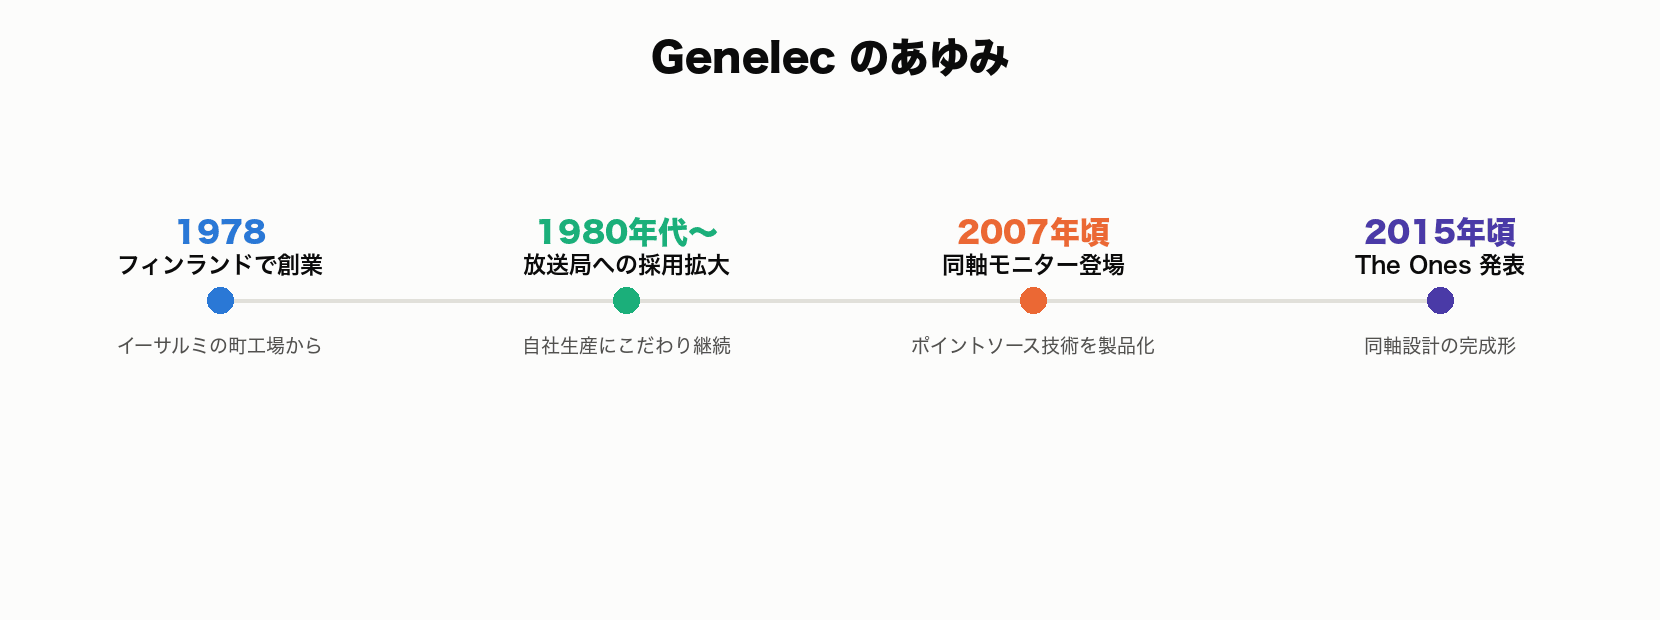
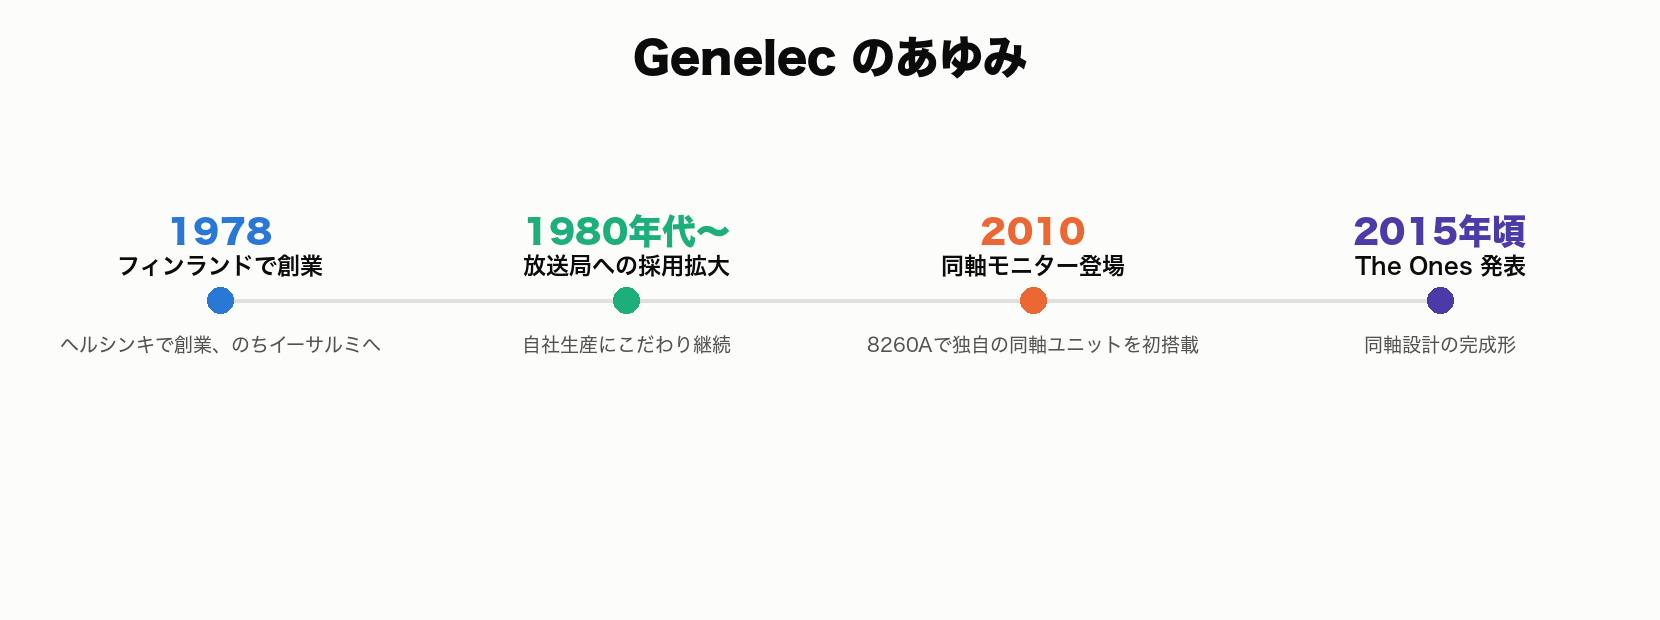
hardware_dtm: 前半のタイムライン画像5枚(Genelec・Sony・AMS Neve・Shure・SSL)を本文の年号に合わせて作り直し、Genelecのつかみ文とShureの資本の説明の根拠不明な記述を修正

diff --git a/courses/hardware_dtm.js b/courses/hardware_dtm.js
@@ -213,7 +213,7 @@ window.COURSES["hardware_dtm"] = {
       order: 3,
       title: "Genelec",
       category: "モニタースピーカー",
-      hook: "フィンランドの小さな町の会社が「同軸ユニット」を発明し、世界のスタジオの標準になった話。",
+      hook: "フィンランドの小さな町に拠点を置く会社が、測定を重んじるアンプ内蔵モニターと独自の同軸設計で、世界のスタジオの標準になった話。",
       image: "genelec_card.png",
       sections: [
         {
@@ -318,7 +318,7 @@ window.COURSES["hardware_dtm"] = {
             { who: "mina", text: "Neveって名前、機材でもプラグインでもよく見かけるんですけど、そもそも誰なんですか?" },
             { who: "sensei", text: "1961年、イギリス・ケンブリッジ近郊でRupert Neveが設立した「Neve Electronics」が源流だ。1970年前後に開発された1073マイクプリ/EQモジュールは、今も「あの太さ」の代名詞として語り継がれる名機になったんだ。" },
             { who: "mina", text: "Rupert Neveって、ずっと同じ会社にいたわけじゃないんですか?" },
-            { who: "sensei", text: "そう、自身が興した会社を手放してはまた新しい会社を興す、というキャリアを繰り返した人物として知られている。Neve社自体もその後複数回の資本移動を経て、Advanced Music Systems(AMS)と統合して「AMS Neve」になったんだ。本人もその後Focusrite(1985年)、さらに晩年にRupert Neve Designs(2005年、アメリカ・テキサス州)を興すなど、生涯にわたって設計者として現場に関わり続けた。2021年に亡くなるまで、新しい回路設計への情熱を失わなかった人物として業界内で敬意を集めているよ。" },
+            { who: "sensei", text: "そう、自身が興した会社を手放してはまた新しい会社を興す、というキャリアを繰り返した人物として知られている。Neve社自体もその後複数回の資本移動を経て(1985年にドイツのSiemens傘下)、1992年に同じくSiemensが買収していたAdvanced Music Systems(AMS)と統合されて「AMS Neve」になったんだ。本人もその後Focusrite(1985年)、さらに晩年にRupert Neve Designs(2005年、アメリカ・テキサス州)を興すなど、生涯にわたって設計者として現場に関わり続けた。2021年に亡くなるまで、新しい回路設計への情熱を失わなかった人物として業界内で敬意を集めているよ。" },
             { who: "mina", text: "1073ってどういう経緯で生まれた製品なんですか?" },
             { who: "sensei", text: "1073の設計は元々、1970年にロンドンのWessex Studios(ウェセックス・スタジオ)向けの大型コンソール「A88」用に開発されたモジュールだったとされているんだ。特定スタジオの発注に応じて作られた一部品が、後にNeveというブランド全体を象徴する存在になったという経緯は、名機誕生の逸話としてしばしば語られるよ。" },
           ],
@@ -445,7 +445,7 @@ window.COURSES["hardware_dtm"] = {
           heading: "お金の話",
           dialogue: [
             { who: "mina", text: "Shureって大企業ですよね?経営体制はどうなってるんですか?" },
-            { who: "sensei", text: "Shureは大企業でありながら、現在も創業家(Shure/LaMantia家)が経営権を握る非公開企業であり続けている点が業界内で特筆されるんだ。大手が上場・買収を経験する中、独立資本を保ち続けていることが製品の一貫性にもつながっているとされているよ。正確な売上高・株式構成の詳細は非公開情報が多く要確認だね。" },
+            { who: "sensei", text: "Shureは大企業でありながら、株式を上場しない非公開企業のまま、2025年に創業100周年を迎えた点が業界内で特筆されるんだ。1995年に創業者Sidney N. Shureが亡くなった後は妻のRose Shureが会社を率い、2016年に彼女が亡くなった後は社内で長く働いてきたChris Schyvinckが会長兼CEOを引き継いだとされる。大手が上場・買収を経験する中、独立資本を保ち続けていることが製品の一貫性にもつながっているとされているよ。正確な売上高・株式構成の詳細は非公開情報が多く要確認だね。" },
           ],
         },
         {
@@ -478,7 +478,7 @@ window.COURSES["hardware_dtm"] = {
       quiz: [
         { q: "Shureの創業当初の事業は何だったか?", choices: ["マイク専業", "ラジオ部品のキット販売", "レコード制作", "楽器店"], answer: 1, explain: "1925年創業当初はラジオ部品のキット販売業だった。" },
         { q: "SM57/SM58に共通するマイクの型式は?", choices: ["コンデンサー型", "リボン型", "ダイナミック型", "真空管型"], answer: 2, explain: "耐久性に優れたダイナミック型マイクである。" },
-        { q: "Shureという企業の資本面での特徴は?", choices: ["近年上場した", "外資に買収された", "創業家経営の非公開企業を維持", "サブスク専業に転換した"], answer: 2, explain: "100年近く創業家が経営権を握る非公開企業として続いている。" },
+        { q: "Shureという企業の資本面での特徴は?", choices: ["近年上場した", "外資に買収された", "上場しない非公開企業として独立を維持", "サブスク専業に転換した"], answer: 2, explain: "1925年の創業から100年以上、株式を上場しない非公開企業として独立を保っている。" },
         { q: "ダイナミック型マイクがファンタム電源を必要としない理由は?", choices: ["電池を内蔵しているから", "コイルと磁石で自ら発電する構造だから", "デジタル信号のみを扱うから", "USBで給電されるから"], answer: 1, explain: "コイルと磁石による電磁誘導で自己発電的に動作する構造のため。" },
         { q: "近年配信/ポッドキャスト市場で人気が再燃したShureのマイクは?", choices: ["SM57", "SM7B", "Beta 52A", "KSM44"], answer: 1, explain: "SM7Bは放送/配信/レコーディング向けとして近年特に人気が高まっている。" },
         { q: "「Unidyne」という名称の由来は?", choices: ["ユニークなデザイン", "単一指向性(uni-directional)", "統一規格(unified)", "創業者の名前"], answer: 1, explain: "単一指向性を意味するuni-directionalの略で、単一指向性カプセルの先駆けだった。" },

diff --git a/index.html b/index.html
@@ -14,7 +14,7 @@
 </head>
 <body>
 <div id="app">読み込み中...</div>
-<script src="courses/hardware_dtm.js?v=20261124a"></script>
+<script src="courses/hardware_dtm.js?v=20261128a"></script>
 <script src="courses/plugin_makers.js?v=20260810o"></script>
 <script src="courses/instrument_makers.js?v=20261019a"></script>
 <script src="courses/kojin_jigyou.js?v=20261117a"></script>

diff --git a/scripts/make_timeline.py b/scripts/make_timeline.py
@@ -68,6 +68,35 @@ TIMELINES = {
         ("1992", "機材メーカーとして設立", "自分用に作ったHV-3を製品化"),
         ("現在", "クラシック録音の現場で定評", "色を付けない増幅を追求"),
     ]),
+    # hardware_dtm.js 前半の本文に合わせた内容(2026-11-28 見直し)
+    "images/tl_genelec.png": ("Genelec のあゆみ", [
+        ("1978", "フィンランドで創業", "ヘルシンキで創業、のちイーサルミへ"),
+        ("1980年代〜", "放送局への採用拡大", "自社生産にこだわり継続"),
+        ("2010", "同軸モニター登場", "8260Aで独自の同軸ユニットを初搭載"),
+        ("2015年頃", "The Ones 発表", "同軸設計の完成形"),
+    ]),
+    "images/tl_ams_neve.png": ("AMS Neve のあゆみ", [
+        ("1961", "Neve Electronics 創業", "Rupert Neveが設立"),
+        ("1970", "1073 開発", "Wessex StudiosのA88用"),
+        ("1985", "Rupert NeveがFocusrite設立", "Neveを離れ新会社へ"),
+        ("1992", "AMS と統合", "AMS Neveが誕生"),
+    ]),
+    "images/tl_shure.png": ("Shure のあゆみ", [
+        ("1925", "シカゴで創業", "ラジオ部品キット販売業"),
+        ("1959〜60年代", "Unidyne III 実用化", "SM57/58 の心臓部"),
+        ("2025", "創業100周年", "非公開企業のまま独立を維持"),
+    ]),
+    "images/tl_ssl.png": ("Solid State Logic のあゆみ", [
+        ("1969", "オックスフォードシャーで創業", "Colin Sandersが設立"),
+        ("1979", "SSL 4000E シリーズ発表", "80年代の音を決定づけた"),
+        ("1980年前後", "Total Recall 搭載", "ミックスの再現で作業の流れを一変"),
+        ("現在", "Audiotonix傘下で運営", "Begbrokeに本拠地"),
+    ]),
+    "images/tl_sony.png": ("Sony MDR-CD900ST のあゆみ", [
+        ("1985", "MDR-CD900 発売", "一般向けヘッドホンが下敷き"),
+        ("1989", "MDR-CD900ST 登場", "ソニー・ミュージックスタジオと共同開発"),
+        ("1990年代〜", "日本のスタジオ標準に", "口コミ的な広がり"),
+    ]),
 }
 
 if __name__ == "__main__":

diff --git a/SERVICE_READINESS_CHECKLIST.md b/SERVICE_READINESS_CHECKLIST.md
@@ -56,6 +56,7 @@
 - [x] (2026-11-22対応) 年号・型番等の個別事実の裏取りを残りのコースで1コースずつ継続する(未実施: hardware_dtm後半(600行目以降のSSL以降の単元、年号約30件)/daw_software(約164件)/instrument_makers(約240件)/money_case_studies(約182件)。plugin_makersは明示指示があるまで対象外。件数の多いコースは単元を区切って複数回に分ける。税金・保険料など毎年変わる数字は年1回の見直しも検討する。2027年分の確定申告が近づいたら(2027年秋ごろ)、青色申告特別控除の新区分を本文の主説明に格上げし、国税庁の公式資料で最終確認する。今回はhardware_dtm後半のうちSony・Apogee・API・Antelope Audioの4単元を実施。Sony: MDR-CD900STを「放送・業務モニター用」からソニーとソニー・ミュージックスタジオ(CBS・ソニー信濃町スタジオ)の共同開発・1985年のMDR-CD900が下敷きに修正、インピーダンス64Ω→63Ω、MDR-7506の「同系統の派生機」を別系統(MDR-V6の流れ)に修正、型番「CD」の由来と冒頭のフック文も合わせて修正。Apogee: 創業者をBetty Bennett・Bruce Jackson・Christof Heidelbergerの3人(1985年12月)に具体化、Duet(2007年)を「USB」からFireWire接続に修正しUSBのDuet 2(2012年ごろ)・Duet 3を追記、「現在も独立系」を2025年11月のRockforce Tech Holding(Manley Labsの親会社)による買収に更新、UV22の「特許化」を根拠のあるUV-1000への搭載に差し替え、実在が曖昧な「Symphony ProToolsシステム」をSymphony I/O MkII(Pro Tools HD版)に修正。API: 設立を「1968年(資料により1969年)、Saul WalkerとLou Lindauerら」に、社名が放送局の自動化に由来するという根拠不明の説明を削除しApostolic Recording Studio向けコンソールがきっかけという説明に(クイズも)、550Aを4バンド→3バンド(4バンドは550B)に、500シリーズの成り立ちを1985年ごろのLunchbox発売・2006年のVPR Allianceに、電源を「±16V/±24V」→元の規格±16Vに、根拠不明の「赤いロゴ」を削除。Antelope: 設立を2007年→2005年ごろ(資料により2003年)に、「元衛星通信エンジニア」を根拠のあるAardvark/AardSyncの経歴に(クイズも)、拠点を「サンフランシスコ本社」→ソフィア本社・工場とカリフォルニアの拠点に、実在しない「Zen Q4」をZen Q Synergy Coreに、10M・Zen Tour等の価格帯を修正。タイムライン画像(tl_*.png)内の年号は画像のため未確認。残りは下の項目で継続)
 - [x] (2026-11-24対応) 年号・型番等の個別事実の裏取りを残りのコースで1コースずつ継続する(未実施: hardware_dtm後半の残り(Yamaha・Mogami/Canare・Chandler Limited・Millennia Mediaの4単元)/daw_software(約164件)/instrument_makers(約240件)/money_case_studies(約182件)。hardware_dtmのタイムライン画像(tl_*.png)に本文と食い違う年号がないかも確認する(特にtl_apogee・tl_api・tl_antelope)。plugin_makersは明示指示があるまで対象外。件数の多いコースは単元を区切って複数回に分ける。税金・保険料など毎年変わる数字は年1回の見直しも検討する。2027年分の確定申告が近づいたら(2027年秋ごろ)、青色申告特別控除の新区分を本文の主説明に格上げし、国税庁の公式資料で最終確認する。今回はhardware_dtm後半の残り4単元を実施し、本文の単元はこれで一巡。Yamaha: NS-10Mの発売時価格を「1本25,000円前後とされる」に具体化(Audio Heritage)、「家庭用で大ヒットにならなかった」を評論での評価が芳しくなかったとされる旨と累計30万台超のセールスに修正、生産終了を「2001年頃(要確認)」からウーファー用パルプの調達難による2001年の終了に確定、NS-10M Studioの根拠不明の価格を削除し変更点を説明。Mogami/Canare: 社名表記を「最上電線」からモガミ電線に、2015年に沖電線(OKIグループ)の子会社になった旨を追加(創業1957年は資料が少ないため「1950年代、1957年とする資料が多い」とぼかし)。Canareの創業を1953年から1970年(個人経営)・1974年株式会社設立に修正し、成り立ちを「工業用電線の総合メーカー」から配線工事業出身で1980年に放送用ケーブルへ集中した経緯に書き換え(クイズも)。根拠のない「Neglexのディスク型導体構造」を削除し、2534は4芯スターカッド、擦れノイズ対策は2524の導電性PVC層と修正(クイズも)。2549をギター用から2芯マイクケーブルに、スピーカー用とされていた2932(実際は多芯スネーク)を楽器用2524に差し替え。Neutrikの本社をスイスからリヒテンシュタインに修正(クイズも)、上場企業のカナレを「非公開企業」としていた記述を修正。furtherLearningのMogami Historyリンクがトップページ相当の内容しか表示しないため、2534の説明があるNeglex Quadページに差し替え(HTTP 200確認)。Chandler: 設立を1997年から1999年(ノースハリウッドの自宅)に、Abbey Road/EMIとの正式な提携を2004年ごろからと明記、TG1 Limiter(2001年)を追記、根拠不明の「API/Neveのリペアエンジニア出身」を公式記事・地元報道に基づく経歴に差し替え(クイズも)、「イギリスの放送機材」をEMIの自社スタジオ用機材に修正。Millennia: 設立を1989年から「1990年にクラシック音楽の制作会社として始まり、メーカーとしては1992年」に修正、創業動機を公式サイトの説明(オーケストラ録音のためにHV-3を自作し口コミで広まった)に書き換え。HV-3に存在しない「真空管/トランジスタ/ディスクリート切替」を削除し、トランスレスのソリッドステートである点と、真空管/半導体の切替はNSEQ-2・STT-1 OriginのTwin Topologyである点に修正(クイズ3問も)。製品リストをHV-3C(2ch)・HV-3D(4/8ch)に修正、TCL-2を真空管コンプからオプトコンプに修正、根拠の薄い価格帯は「要確認」に。La GrouがPOW-r Consortiumの創設者である点を豆知識に追加。node構文チェックOK)
 - [x] (2026-11-27対応) 年号・型番等の個別事実の裏取りを残りのコースで1コースずつ継続する(未実施: daw_software(約164件)/instrument_makers(約240件)/money_case_studies(約182件、2026-11-24に追加された5単元を含む)。hardware_dtmは本文の単元が一巡したが、タイムライン画像(tl_*.png)に本文と食い違う年号がないか確認する(特にtl_apogee・tl_api・tl_antelope・tl_chandler・tl_millennia・tl_mogami_canare。今回Chandlerの設立を1999年、Millenniaを1990/1992年、Canareを1970/1974年に直したため画像側と食い違う可能性が高い)。plugin_makersは明示指示があるまで対象外。件数の多いコースは単元を区切って複数回に分ける。税金・保険料など毎年変わる数字は年1回の見直しも検討する。2027年分の確定申告が近づいたら(2027年秋ごろ)、青色申告特別控除の新区分を本文の主説明に格上げし、国税庁の公式資料で最終確認する。今回はhardware_dtm後半6単元のタイムライン画像を確認し、6枚すべて本文と食い違っていたため作り直した。生成スクリプトが残っていなかったため、元画像と同じ寸法・配色・ヒラギノ角ゴシックで描く scripts/make_timeline.py を新規作成し、pngquantで圧縮。Apogee: 創業者を2人→本文どおり3人に、Duetを「Mac向けFireWire接続」に。API: 根拠のない「1968年頃 2520開発」「後年 500シリーズが業界標準に」を、本文どおり1985年頃のLunchbox発売・2006年のVPR Alliance発足に差し替え、創業者にLou Lindauerを追加。Antelope: 2007年→2005年頃、「元衛星通信エンジニア」→Aardvark(AardSync)出身、年代未確認の「2010年代 10Mアトミッククロック」を本文どおり「2011年頃 I/F市場に本格参入」に。Mogami/Canare: Canare 1953年→1970年(1974年に株式会社化・名古屋)、「最上電線」→モガミ電線、年順に並べ替え、Mogamiの1957年は「年頃」とぼかし。Chandler: 1997年→1999年、「以降」の提携を2004年頃に。Millennia: 1989年→1990年(録音制作会社として出発)/1992年(機材メーカーとして設立)の2段階に)
-- [ ] 年号・型番等の個別事実の裏取りを残りのコースで1コースずつ継続する(未実施: daw_software(約164件)/instrument_makers(約240件)/money_case_studies(約182件、2026-11-24に追加された5単元を含む)。hardware_dtm前半8枚のタイムライン画像(tl_rme・tl_genelec・tl_ams_neve・tl_shure・tl_focusrite・tl_ssl・tl_sony・tl_yamaha)も本文と食い違いがないか確認し、必要なら scripts/make_timeline.py にデータを足して作り直す(目視で気づいた点: tl_genelecが「イーサルミの町工場から」創業となっているが本文はヘルシンキで創業し後にイーサルミへ移転、tl_sonyが「元は放送/業務モニター用」「2010年代 生産終了騒動」となっているが本文は共同開発で生産終了騒動の記述は根拠未確認、tl_ams_neveの「1990年代 AMSと統合」は1992年の買収か要確認)。plugin_makersは明示指示があるまで対象外。件数の多いコースは単元を区切って複数回に分ける。税金・保険料など毎年変わる数字は年1回の見直しも検討する。2027年分の確定申告が近づいたら(2027年秋ごろ)、青色申告特別控除の新区分を本文の主説明に格上げし、国税庁の公式資料で最終確認する)
+- [x] (2026-11-28対応) 年号・型番等の個別事実の裏取りを残りのコースで1コースずつ継続する(未実施: daw_software(約164件)/instrument_makers(約240件)/money_case_studies(約182件、2026-11-24に追加された5単元を含む)。hardware_dtm前半8枚のタイムライン画像(tl_rme・tl_genelec・tl_ams_neve・tl_shure・tl_focusrite・tl_ssl・tl_sony・tl_yamaha)も本文と食い違いがないか確認し、必要なら scripts/make_timeline.py にデータを足して作り直す(目視で気づいた点: tl_genelecが「イーサルミの町工場から」創業となっているが本文はヘルシンキで創業し後にイーサルミへ移転、tl_sonyが「元は放送/業務モニター用」「2010年代 生産終了騒動」となっているが本文は共同開発で生産終了騒動の記述は根拠未確認、tl_ams_neveの「1990年代 AMSと統合」は1992年の買収か要確認)。plugin_makersは明示指示があるまで対象外。件数の多いコースは単元を区切って複数回に分ける。税金・保険料など毎年変わる数字は年1回の見直しも検討する。2027年分の確定申告が近づいたら(2027年秋ごろ)、青色申告特別控除の新区分を本文の主説明に格上げし、国税庁の公式資料で最終確認する)
+- [ ] 年号・型番等の個別事実の裏取りを残りのコースで1コースずつ継続する(未実施: daw_software(約164件)/instrument_makers(約240件)/money_case_studies(約182件、2026-11-24に追加された5単元を含む)。hardware_dtmは本文・タイムライン画像14枚とも一巡済み(前半のtl_rme・tl_focusrite・tl_yamahaは本文と食い違いなしのため元画像のまま)。plugin_makersは明示指示があるまで対象外。件数の多いコースは単元を区切って複数回に分ける。税金・保険料など毎年変わる数字は年1回の見直しも検討する。2027年分の確定申告が近づいたら(2027年秋ごろ)、青色申告特別控除の新区分を本文の主説明に格上げし、国税庁の公式資料で最終確認する)
 - [x] (2026-11-01対応) mix_tips_practice(即断クイズ形式)のrenderTipがfurtherLearningを表示しない作りのため、他コースと同じ「もっと学ぶ」リンク欄を表示できるようにする(2026-10-20のcontentタスクで見つかった候補)
 - [x] (2026-08-22対応) 存在しないコースID/unit IDへアクセスした際のエラー表示を確認する(app.jsの`getCourse`/`getUnit`は不正なIDに`undefined`/`null`を返し、`renderGenre`/`renderCourse`/`renderLesson`/`renderQuiz`/`renderPatch`/`renderCase`/`renderTip`の全ルートが`if (!course || !unit) return renderHome();`パターンで例外なくホーム画面へフォールバックすることをコードレビューで確認。クラッシュ・白画面なし。ただし無言でホームへ戻るだけで「見つかりません」等の明示メッセージは出ないため、次ラウンドで軽量なトースト表示の要否を検討する)

diff --git a/AUTO_UPDATE_LOG.md b/AUTO_UPDATE_LOG.md
@@ -54,3 +54,4 @@
 - 2026-11-24 [polish] 信頼性 — 年号・数値の裏取りの7コース目の締めとしてhardware_dtm.js後半の残り4単元(Yamaha・Mogami/Canare・Chandler Limited・Millennia Media)を実施し、本文は一巡。NS-10Mの発売時価格(1本25,000円前後)と2001年の生産終了理由(コーン紙用パルプの調達難)を確定。Canareの創業を1953年→1970年(株式会社は1974年)に、成り立ちを配線工事業出身に修正、Mogamiを「モガミ電線」・2015年から沖電線の子会社に。根拠のない「Neglexのディスク型導体」を削除し、2549(マイク用)・2524(楽器用)・2932の型番の用途違いを修正、Neutrikの本社をリヒテンシュタインに修正。Chandlerの設立を1997年→1999年、Abbey Roadとの提携は2004年ごろからに、根拠不明の創業者経歴を差し替え。Millenniaの設立を1989年→1990年(制作会社)/1992年(メーカー)に、HV-3に存在しない真空管モード切替を削除しTwin Topology(NSEQ-2等)と区別、TCL-2をオプトコンプに修正。クイズ計8問を修正、Mogamiの「さらに学ぶ」リンクを内容のあるページに差し替え。node構文チェックOK、index.htmlの`?v=`も更新。今日すでに別作業で配線パズル・お金のケーススタディに10単元が追加されていたためcontentではなくpolishを選択(その10単元の追加はこのログに未記載)
 - 2026-11-25 [content] music_business_money — 単元数最少(8単元)のコースに9単元目「YouTubeで曲が使われたときのお金 — 包括許諾とContent ID」を追加(管理団体と動画サービスの包括許諾/CD音源は原盤側の許諾が別に必要/Content IDのブロック・収益化・追跡/独占的権利が登録の前提で非独占素材や制作用ループは対象外/BGM納品時の取り決めの5セクション+クイズ6問)。2008年の最初の契約と2023年2月のContent ID本格活用はYouTube公式ブログ、対応の種類と登録資格はYouTubeヘルプ、原盤の扱いと作家本人への申し立てはNexToneのFAQで確認。furtherLearningに4件(curlでHTTP 200を確認)。第8単元の締めのセリフを次単元への導入に変更。コース説明文・README.mdの単元数(music_business_money 8→9、あわせて別作業で増えていたgear_patch_practice 155→174・money_case_studies 82→94を実数に修正)、index.htmlの`?v=`を更新。node構文チェックOK
 - 2026-11-27 [polish] 信頼性 — hardware_dtm後半6単元のタイムライン画像(tl_apogee・tl_api・tl_antelope・tl_mogami_canare・tl_chandler・tl_millennia)を本文の年号に合わせて作り直した(Canare 1953→1970年、Chandler 1997→1999年、Millennia 1989→1990/1992年、Antelope 2007→2005年頃、APIの根拠のない年表をLunchbox(1985年頃)・VPR Alliance(2006年)に差し替え、Apogeeの創業者を3人に等)。生成スクリプトが無かったため元画像と同じ寸法・配色で描く scripts/make_timeline.py を新規作成。今日の別セッションで画像生成とチェックリスト更新まで済んで未コミットだったものを、本文との照合(長野/名古屋・Igor Levin・Wade Goeke・Lunchbox等)と6枚の目視確認(文字のはみ出しなし)をしてから仕上げた。前半8枚の画像確認はSERVICE_READINESS_CHECKLIST.mdの継続項目に追記済み
+- 2026-11-28 [polish] 信頼性 — hardware_dtm前半8枚のタイムライン画像を本文と照合し、食い違い・根拠不明のあった5枚を scripts/make_timeline.py にデータを足して作り直した(Genelec: 創業地を「イーサルミの町工場」→ヘルシンキで創業しのちイーサルミへ、同軸モニター登場を2007年頃→8260Aの2010年に。Sony: 「元は放送/業務モニター用」「2010年代 生産終了騒動」を削除し1985年MDR-CD900→1989年CD900ST(ソニー・ミュージックスタジオと共同開発)に。AMS Neve: 「1990年代 AMSと統合」→1992年。Shure: 「創業家経営を継続/100年近く」→2025年に創業100周年・非公開企業。SSL: 4000Eシリーズ発表と明記、英単語混じりの「workflow」を日本語に、Total Recallを「1980年前後」とぼかす)。本文もGenelecのつかみ文「同軸ユニットを発明」を修正、Shureの根拠不明な「創業家(Shure/LaMantia家)が経営権」を2016年以降の経営交代の説明に差し替え(クイズ1問も)、AMS Neveに1985年Siemens傘下・1992年統合を追記。pngquantで圧縮、5枚を目視確認、node構文チェックOK、index.htmlの`?v=`も更新。tl_rme・tl_focusrite・tl_yamahaは食い違いなし
